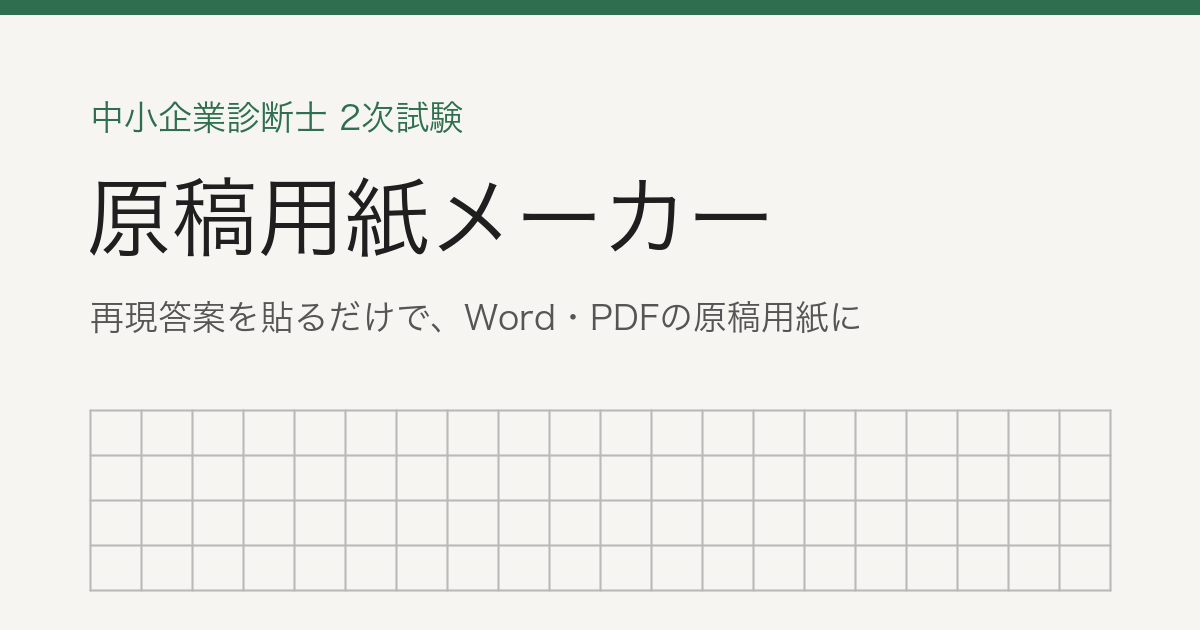
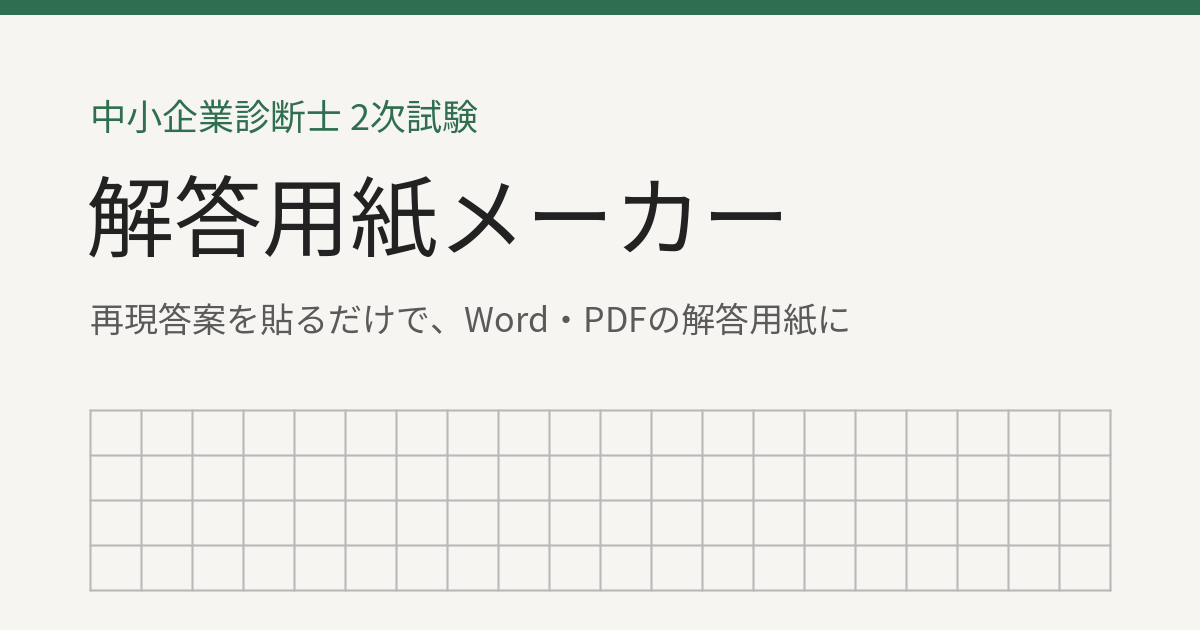
設問ごとの書き出し1マスあけと名称・OGPを解答用紙メーカーに変更
Claude-Session: https://claude.ai/code/session_01RZ9vxiYGkSSJ7DRJkWnYxX

Changed region(s): [[0.0617, 0.2714, 0.6475, 0.4222], [0.0617, 0.4825, 0.7092, 0.5429], [0.0617, 0.1508, 0.4008, 0.2111]]

diff --git a/src/App.vue b/src/App.vue
@@ -30,6 +30,24 @@ const font = ref(FONTS[0]);
 const brackets = ref(false);
 const keepNewlines = ref(false);
 const srcEl = ref(null);
+// 設問ごとの「書き出し1マスあけ」（設問の番号 → true）
+const INDENT_STORE = 'genkou-indents-v1';
+function loadIndents() {
+  try {
+    return JSON.parse(localStorage.getItem(INDENT_STORE)) || {};
+  } catch {
+    return {};
+  }
+}
+const indents = ref(loadIndents());
+function setIndent(i, on) {
+  indents.value = { ...indents.value, [i]: on };
+  try {
+    localStorage.setItem(INDENT_STORE, JSON.stringify(indents.value));
+  } catch {
+    /* 保存できない環境では何もしない */
+  }
+}
 
 watch(src, (v) => {
   try {
@@ -43,6 +61,7 @@ const blocks = computed(() =>
   layout(src.value, {
     brackets: brackets.value,
     keepNewlines: keepNewlines.value,
+    indents: indents.value,
     defaultLimit: limit.value > 0 ? limit.value : null,
   }),
 );
@@ -67,7 +86,7 @@ function download(ext) {
 
 <template>
   <header>
-    <h1>中小企業診断士原稿用紙メーカー</h1>
+    <h1>中小企業診断士2次試験解答用紙メーカー</h1>
     <p>中小企業診断士 2次試験の再現答案を貼り付けると、1行20マスの原稿用紙に1マスずつ書いた形で Word（.docx）・PDF に出力します。</p>
   </header>
   <main>
@@ -97,6 +116,7 @@ function download(ext) {
         ・全角1文字＝1マス。英数字など半角は1マスに2文字入ります（例：<code>RO</code><code>E1</code><code>0%</code>）。<br />
         ・行頭に来る句読点（、。）は前の行の最後のマスに一緒に入れます。<br />
         ・<code>#</code> で始まる行は設問の見出しです。見出しに「100字」のように書くとその字数分のマス目を用意し、超過を赤で示します。<br />
+        ・プレビューの各設問のチェックボックスで、その設問だけ段落の書き出しを1マスあけられます（「改行を残す」なら各段落、それ以外は冒頭）。<br />
         ・見出しがない場合は全体を1つの答案として扱います。貼り付け時の改行は既定で詰めます。<br />
         ・PDF は明朝＝平成明朝、ゴシック＝平成角ゴシック（閲覧環境のフォントで表示）になります。<br />
         ・入力内容はブラウザの中だけで処理され、どこにも送信されません。
@@ -104,7 +124,7 @@ function download(ext) {
     </section>
     <section class="panel">
       <div class="preview">
-        <GenkouSheet v-for="(b, i) in blocks" :key="i" :block="b" />
+        <GenkouSheet v-for="(b, i) in blocks" :key="i" :block="b" @update:indent="setIndent(i, $event)" />
         <p v-if="!blocks.length" class="empty">左に答案を貼り付けるとここにプレビューが出ます。</p>
       </div>
     </section>

diff --git a/index.html b/index.html
@@ -3,18 +3,18 @@
 <head>
 <meta charset="UTF-8">
 <meta name="viewport" content="width=device-width, initial-scale=1">
-<title>中小企業診断士原稿用紙メーカー</title>
+<title>中小企業診断士2次試験解答用紙メーカー</title>
 <meta name="description" content="中小企業診断士2次試験の再現答案を貼り付けると、1マスずつ書いた原稿用紙をWord・PDFで出力します。">
 <meta property="og:type" content="website">
-<meta property="og:site_name" content="中小企業診断士原稿用紙メーカー">
-<meta property="og:title" content="中小企業診断士原稿用紙メーカー">
+<meta property="og:site_name" content="中小企業診断士2次試験解答用紙メーカー">
+<meta property="og:title" content="中小企業診断士2次試験解答用紙メーカー">
 <meta property="og:description" content="再現答案を貼るだけで、1マスずつ書いた原稿用紙をWord・PDFで出力。">
 <meta property="og:url" content="https://yut0naga1.github.io/smec_toan/">
 <meta property="og:image" content="https://yut0naga1.github.io/smec_toan/ogp.png">
 <meta property="og:image:width" content="1200">
 <meta property="og:image:height" content="630">
 <meta name="twitter:card" content="summary_large_image">
-<meta name="twitter:title" content="中小企業診断士原稿用紙メーカー">
+<meta name="twitter:title" content="中小企業診断士2次試験解答用紙メーカー">
 <meta name="twitter:description" content="再現答案を貼るだけで、1マスずつ書いた原稿用紙をWord・PDFで出力。">
 <meta name="twitter:image" content="https://yut0naga1.github.io/smec_toan/ogp.png">
 </head>

diff --git a/src/components/GenkouSheet.vue b/src/components/GenkouSheet.vue
@@ -4,6 +4,7 @@ import { COLS } from '../lib/genkou.js';
 
 // layout() が返す1設問分のブロック
 const props = defineProps({ block: { type: Object, required: true } });
+const emit = defineEmits(['update:indent']);
 
 const countLabel = computed(() => {
   const b = props.block;
@@ -29,6 +30,7 @@ function cellClass(r, c) {
       <template v-if="block.title">{{ block.title }} </template>
       <span :class="{ over: block.over }">{{ countLabel }}<template v-if="block.over"> 字数超過</template></span>
     </h2>
+    <label class="indent"><input type="checkbox" :checked="block.indent" @change="emit('update:indent', $event.target.checked)" /> 段落の書き出しを1マスあける</label>
     <div class="sheet">
       <template v-for="(row, r) in block.rows" :key="r">
         <div v-for="c in cols" :key="c" class="cell" :class="cellClass(r, c)">
@@ -42,6 +44,7 @@ function cellClass(r, c) {
 
 <style scoped>
 h2 { font-size: 14px; margin: 0 0 6px; font-weight: 600; }
+label.indent { display: block; font-size: 12px; margin: 0 0 6px; }
 h2 .over { color: var(--over); }
 .sheet { display: grid; grid-template-columns: repeat(20, var(--cell)) 34px; font-family: "Hiragino Mincho ProN", "Yu Mincho", "MS Mincho", serif; }
 .cell { width: var(--cell); height: var(--cell); border-right: 1px solid var(--line); border-bottom: 1px solid var(--line);

diff --git a/src/lib/genkou.js b/src/lib/genkou.js
@@ -107,11 +107,14 @@ function parse(input, opts) {
 }
 
 /** 1ブロックをレイアウトする（改行を残す場合は改行ごとに次の行へ） */
-function layoutBlock(block, opts) {
+function layoutBlock(block, opts, indent) {
   const paragraphs = block.body.split('\n');
   let rows = [];
   for (const p of paragraphs) {
-    const r = toRows(toCells(p), opts);
+    const cells = toCells(p);
+    // 段落の書き出しを1マスあける（空の段落はそのまま）
+    if (indent && cells.length) cells.unshift({ text: '', half: false, hang: '' });
+    const r = toRows(cells, opts);
     rows = rows.concat(r.length ? r : [[]]);
   }
   if (rows.length === 1 && rows[0].length === 0) rows = [];
@@ -127,12 +130,15 @@ function layoutBlock(block, opts) {
     limit: block.limit,
     count,
     over: block.limit ? count > block.limit : false,
+    indent: !!indent,
     rows,
   };
 }
 
+/** opts.indents: { [設問の番号(0始まり)]: true } の設問は段落の書き出しを1マスあける */
 function layout(input, opts) {
-  return parse(input, opts).map((b) => layoutBlock(b, opts));
+  const indents = (opts && opts.indents) || {};
+  return parse(input, opts).map((b, i) => layoutBlock(b, opts, indents[i]));
 }
 
 // ---------------------------------------------------------------- docx

diff --git a/README.md b/README.md
@@ -1,4 +1,4 @@
-# 中小企業診断士原稿用紙メーカー
+# 中小企業診断士2次試験解答用紙メーカー
 
 中小企業診断士2次試験の再現答案を貼り付けると、1行20マスの原稿用紙に1マスずつ書いた形で Word（.docx）・PDF を出力するサイト。Vue 3 + Vite。入力はブラウザ内で処理し、外部に送信しない。
 
